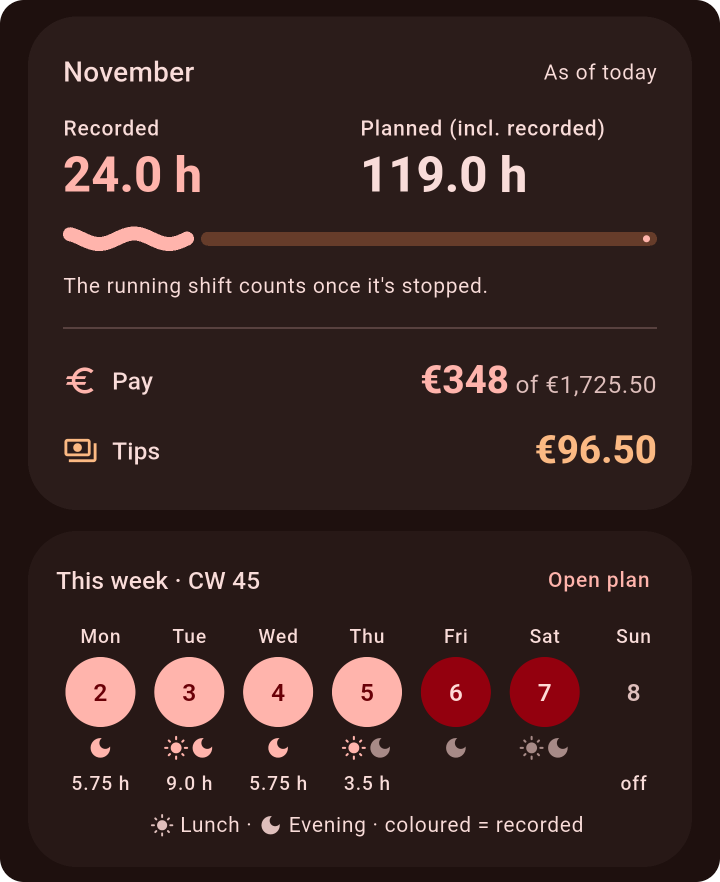
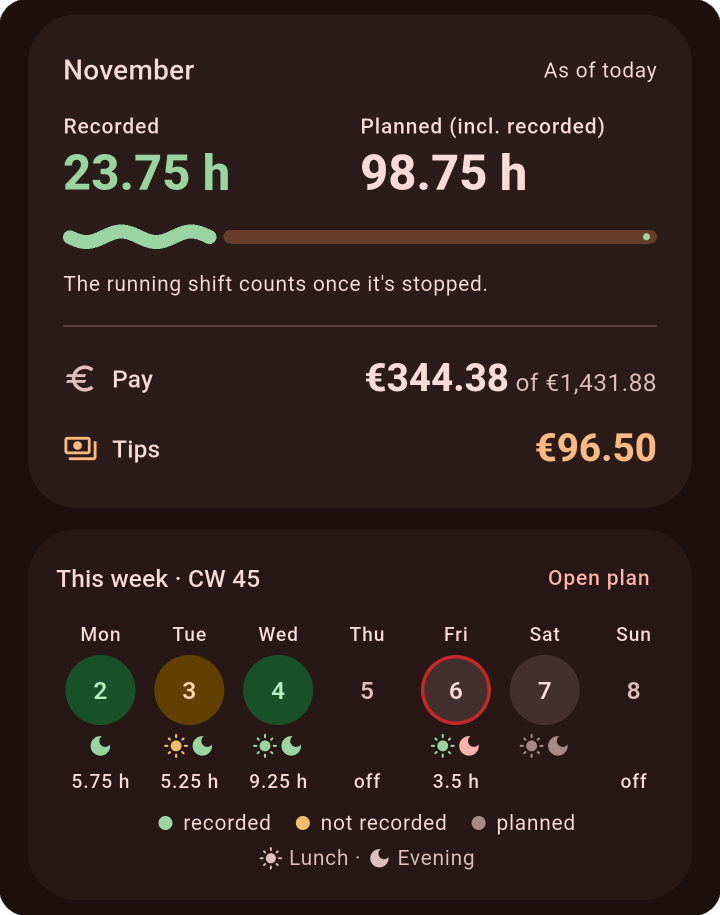
Docs: New README screenshots with the shift colours, and a section on the themes
home.png, plan.png and home-month.png show 1.6.0's colours with demo
data (a missed lunch, a running evening). themes.png shows the month
card and week strip in the five themes, dark over light. HANDOFF notes
how they were made, including the emulator's UTC clock.

diff --git a/docs/HANDOFF.md b/docs/HANDOFF.md
@@ -209,6 +209,10 @@ The developer designed new app icons, to move away from the restaurant's sign ov
 - **Today border:** AKAI red in dark mode uses the real red `#C62828` (`todayColorFor` in `app/theme.dart`); the team planner's day cards use it too.
 - The developer chose these on an artboard (week strip options A–C, the five themes, three new themes). Not taken: new themes (Graphite, Sand, Night blue), because they put the AKAI red on the next-shift card for people who did not choose it.
 - `isLunchSlot` moved from the week strip to `domain/shift_info.dart`, because the Plan labels use it too.
+- **Released as 1.6.0** (tag `v1.6.0`; the release workflow passed).
+- **After 1.6.0:**
+  - Plan rows: next to the long status "not recorded" (English), the times wrapped onto two lines. They now shrink a little instead (`FittedBox` in `_ShiftRow`).
+  - README: new screenshots `home.png`, `plan.png` and `home-month.png`, and a "Colours" section with `themes.png` (month card and week strip in the five themes, dark over light). Made like the seventh session's: a demo database built with `sqlite3` from a copy of the emulator's, loaded with `run-as`, the original restored afterwards. Trap: the emulator's clock is UTC, so store the demo times as UTC, not Berlin time. Remove `calendarId` from the demo settings, or the demo shifts go into the test calendar. The theme is switched through the `themeSeed` and `themeMode` settings rows, and the Home tab scrolled to its end, so all crops line up. Cropped with a scratch Dart script (`package:image`, outside the repo). `export.png`, `pay-month.png`, `team.png` and `team-share.png` are unchanged.
 - **Checked:** `flutter analyze` clean, 149 tests pass. On the emulator (debug build): the Home tab in light mode with AKAI red and bars (sage circles and bars, red today ring, grey planned days, legend, plain pay). Not yet looked at in the app: dark mode, the Plan tab, a missed shift, the icon style, the other themes and System color. Not checked on a phone.
 
 ## Open points (in rough priority)

diff --git a/README.md b/README.md
@@ -78,10 +78,19 @@ Off by default; turn it on in Settings › Features › "Team planner". It is fo
   <img src="docs/screenshots/team-share.png" width="640" alt="The shared shift plan picture for one week">
 </p>
 
+### Colours
+
+- Five colour themes, each in light and dark mode: "Red" (the default), "Terracotta", "Blue", "Green" and "Violet". "System color" takes the colours from the phone's wallpaper (Android 12 and newer).
+- Shifts have their own soft colours on top of the theme: green for recorded, honey for not recorded, grey for planned. On the Plan tab, lunch is apricot and evening is periwinkle.
+- When one of these would look like the theme colour, it moves to a neighbouring colour. With "Green", for example, recorded shifts are teal.
+
+<p align="center">
+  <img src="docs/screenshots/themes.png" width="800" alt="The Home tab's month card and week overview in the five themes, dark and light">
+</p>
+
 ### Other details
 
 - The restaurant's name is set in the setup. It goes into the calendar events' location, the export and the team plan picture.
-- Light and dark mode, and a few colour themes. A red is the default.
 - Launcher icons in a few designs (a serving cloche by default, and some secret ones), each in three shapes, because launchers use different icon shapes: round, squircle and small squircle.
 - The app checks GitHub for a new release, shows what changed, downloads the APK and hands it to Android's installer. After the update it shows what's new once more; Settings › App update › "What's new" shows it again.
 
